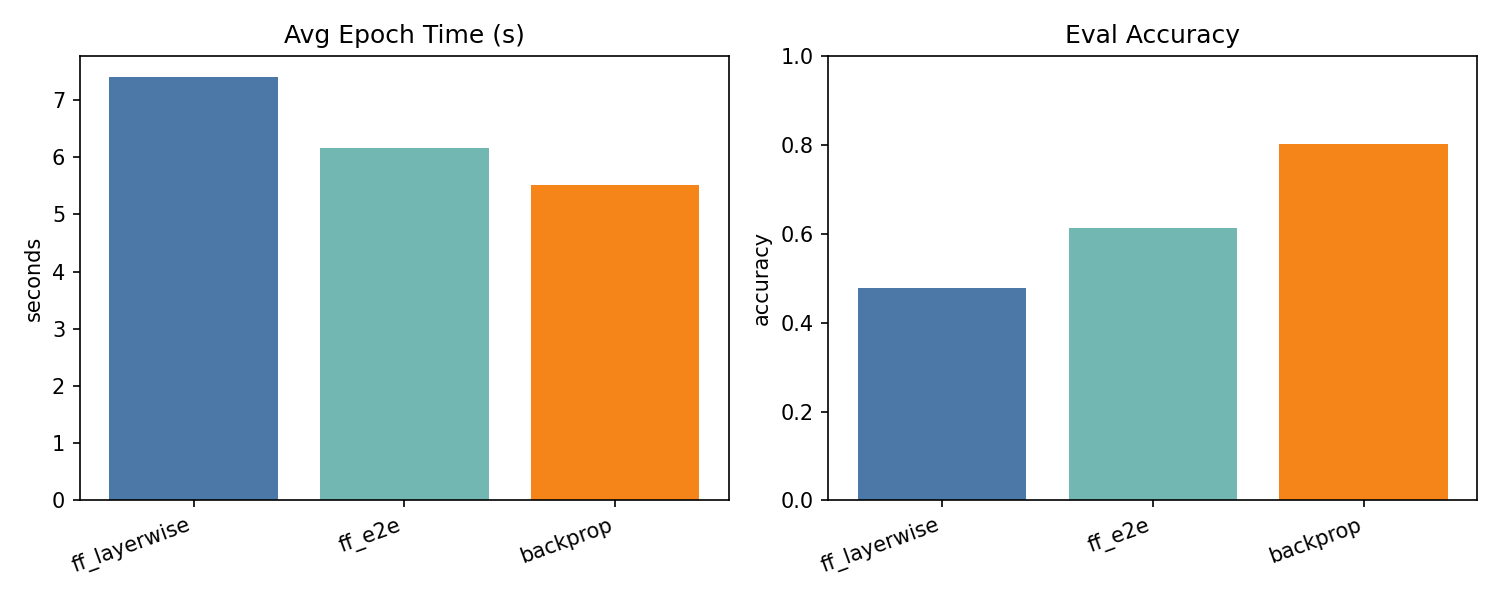
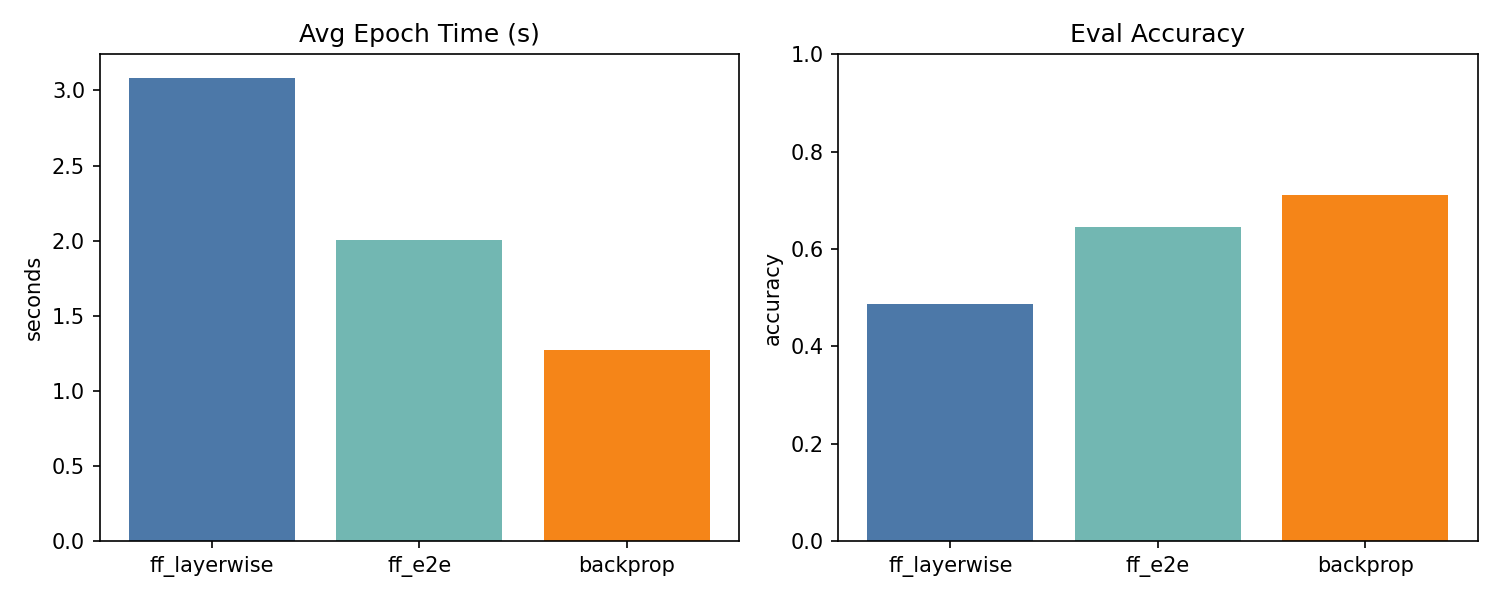
Updated Benchmarking

diff --git a/scripts/benchmark_training.py b/scripts/benchmark_training.py
@@ -13,6 +13,7 @@ import torch
 from torch.optim import Adam
 from torch_geometric.loader import DataLoader
 from torch_geometric.nn import global_mean_pool
+from tqdm import tqdm
 
 ROOT = Path(__file__).resolve().parents[1]
 sys.path.append(str(ROOT / "src"))
@@ -180,7 +181,13 @@ def _benchmark_ff(
     )
 
     epoch_times = []
-    for epoch in range(1, config["epochs"] + 1):
+    for epoch in tqdm(
+        range(1, config["epochs"] + 1),
+        desc="Benchmark",
+        unit="epoch",
+        dynamic_ncols=True,
+        bar_format="{l_bar}{bar}| {n_fmt}/{total_fmt} [{elapsed}<{remaining}, {rate_fmt}]",
+    ):
         model.train()
         t0 = time.perf_counter()
         graphs_seen = 0
@@ -320,7 +327,13 @@ def _benchmark_backprop(graphs, device, config):
     )
 
     epoch_times = []
-    for epoch in range(1, config["epochs"] + 1):
+    for epoch in tqdm(
+        range(1, config["epochs"] + 1),
+        desc="Benchmark",
+        unit="epoch",
+        dynamic_ncols=True,
+        bar_format="{l_bar}{bar}| {n_fmt}/{total_fmt} [{elapsed}<{remaining}, {rate_fmt}]",
+    ):
         model.train()
         t0 = time.perf_counter()
         graphs_seen = 0
@@ -520,6 +533,7 @@ def main() -> int:
         print(r)
 
     plot_path = bench_cfg.get("plot_path", "reports/benchmark_speed_sep.png")
+    bar_plot_path = bench_cfg.get("bar_plot_path", "reports/benchmark.png")
     try:
         import matplotlib.pyplot as plt
 
@@ -540,6 +554,30 @@ def main() -> int:
         fig.savefig(plot_path, dpi=150)
         plt.close(fig)
         print(f"Wrote {plot_path}")
+
+        # Bar chart summary (avg_epoch_s + eval_acc)
+        fig, axes = plt.subplots(1, 2, figsize=(10, 4))
+        modes = [r["mode"] for r in results]
+        avg_epoch_s = [r["avg_epoch_s"] for r in results]
+        eval_acc = [r.get("eval_acc", 0.0) for r in results]
+
+        ax = axes[0]
+        ax.bar(modes, avg_epoch_s, color=["#4C78A8", "#72B7B2", "#F58518"])
+        ax.set_title("Avg Epoch Time (s)")
+        ax.set_ylabel("seconds")
+
+        ax = axes[1]
+        ax.bar(modes, eval_acc, color=["#4C78A8", "#72B7B2", "#F58518"])
+        ax.set_title("Eval Accuracy")
+        ax.set_ylim(0, 1)
+        ax.set_ylabel("accuracy")
+
+        fig.tight_layout()
+        bar_plot_path = Path(bar_plot_path)
+        bar_plot_path.parent.mkdir(parents=True, exist_ok=True)
+        fig.savefig(bar_plot_path, dpi=150)
+        plt.close(fig)
+        print(f"Wrote {bar_plot_path}")
     except Exception as exc:
         print(f"Plotting failed: {exc}")
     return 0

diff --git a/README.md b/README.md
@@ -219,6 +219,11 @@ The script also writes a speed-vs-separation plot:
 reports/benchmark_speed_sep.png
 ```
 
+And a bar chart summary:
+```
+reports/benchmark.png
+```
+
 ## Auto-Sweep (FF Hyperparams)
 Run a lightweight grid search over FF settings and rank by `eval_sep`:
 
